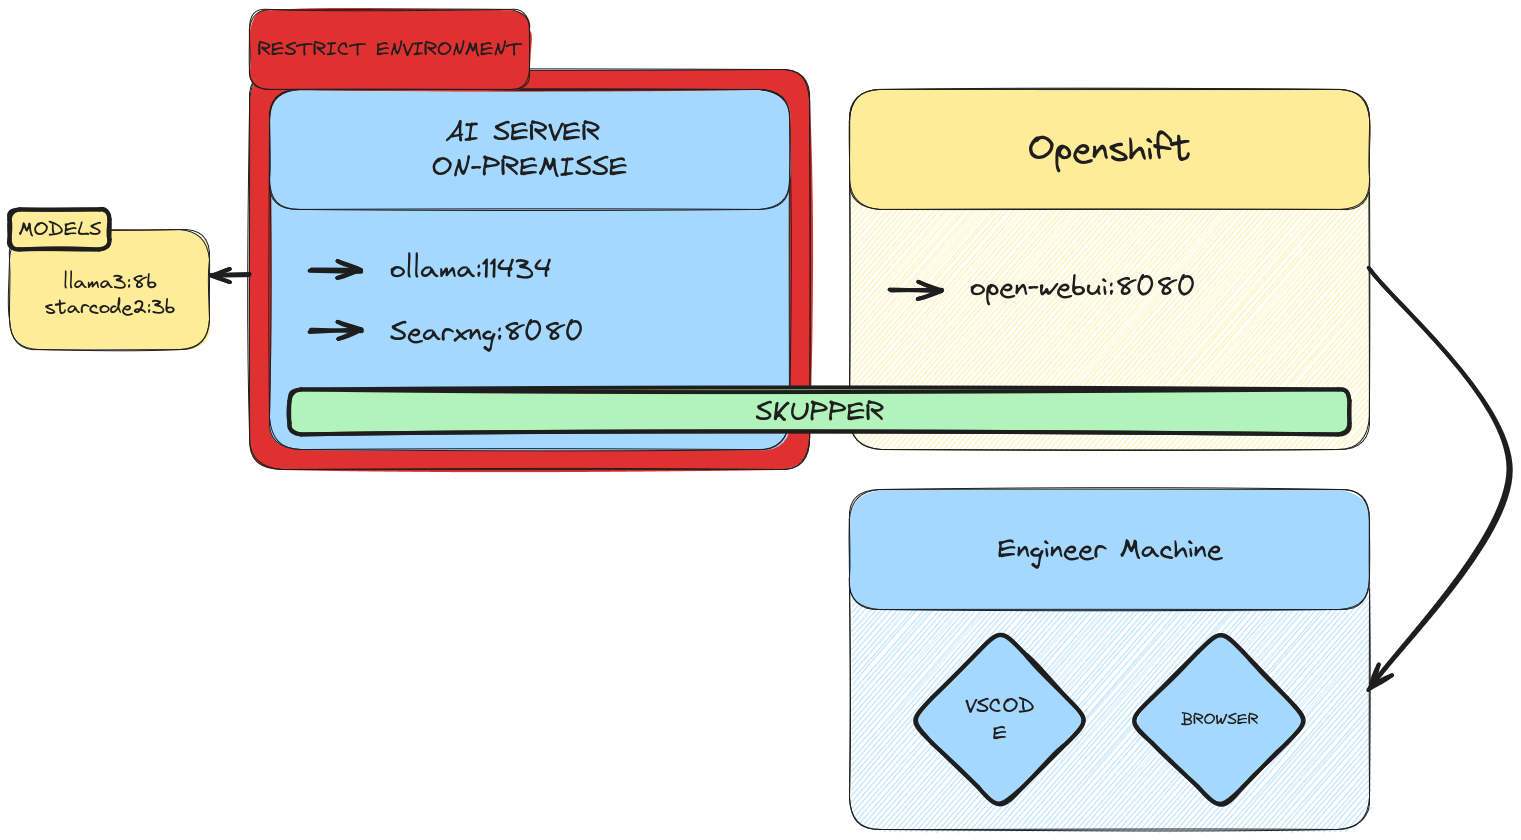
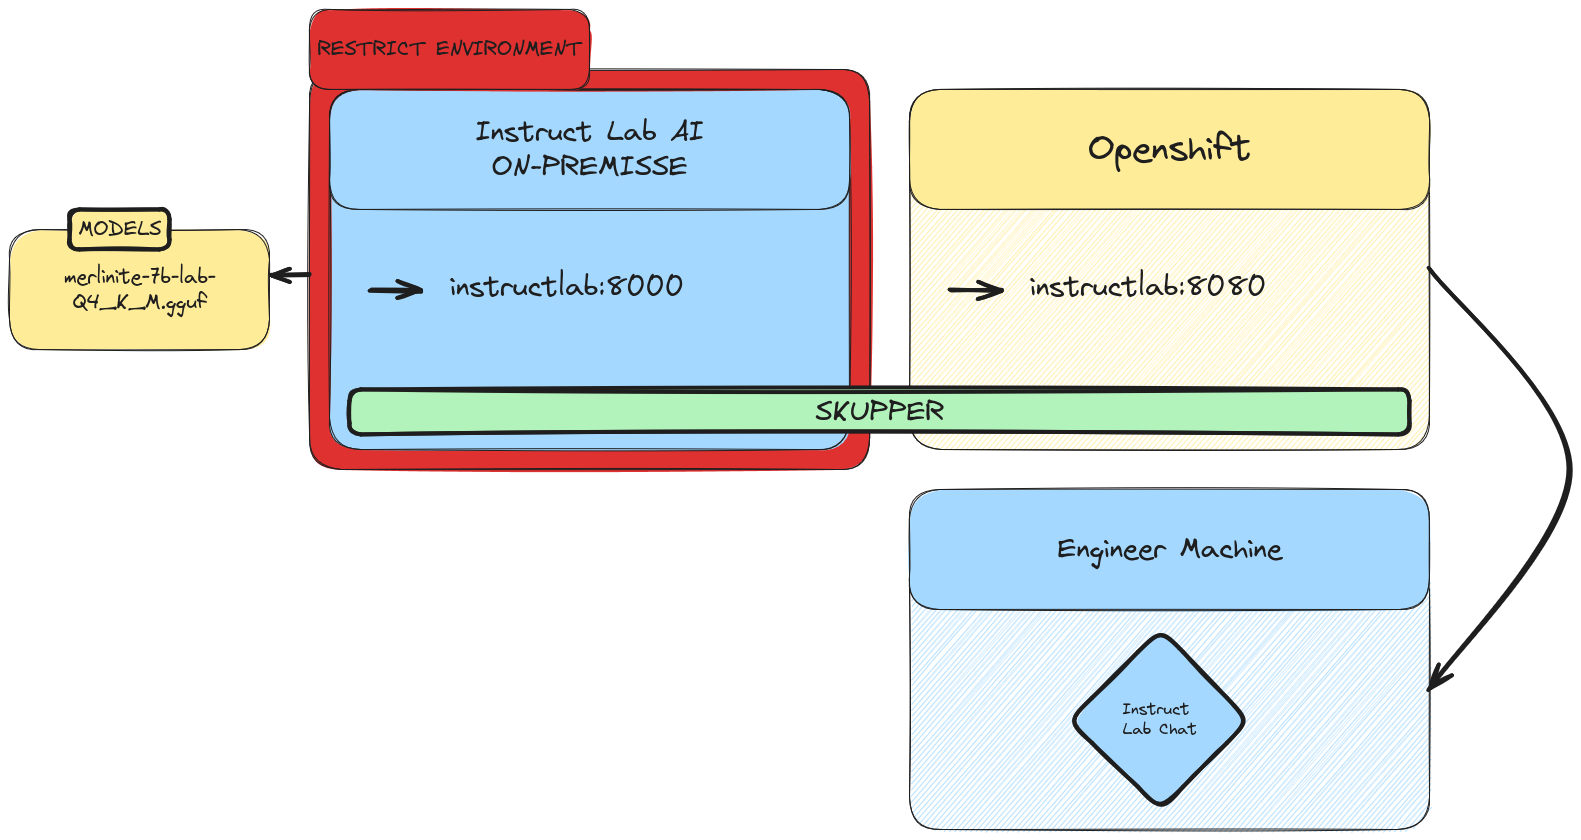
feat: Add token.yaml for secure communication between sites

diff --git a/README.md b/README.md
@@ -2,38 +2,245 @@
 
 ## Problem to solve
 
-The main goal of this project is to create a secure connection between two sites, enabling the communication between two models: llama3 and starcode2. The llama3 model will be used for chatbot purposes, while the starcode2 model will be used for code generation purposes. The Ollama Pilot application will be responsible for receiving the user input, sending it to the llama3 model, receiving the response, and sending it to the starcode2 model. The response from the starcode2 model will be sent back to the user. 
+![contest](banner.jpg)
 
-> This solution is designed to teams/companies that want to use chatbots and code generators without sharing their data with third parties.
+The main goal of this project is to create a secure connection between two sites, enabling the communication between the engineer machine and a Instrcut Lab Model. The merlinite-7b-lab-Q4_K_M.gguf model will be used for chatbot, this model is available in the instruct lab. The license of the model is available in the [Instruct Labs](https://instructlab.ai/).
+
+But, why the banner? Well, the engineer needs to know who is better, Lebron or Jordan. The chatbot will be responsible for answering this question. The chatbot will receive the user input and send it to the llama3 model. The response from the llama3 model will be sent back to the user.
+
+
 
 ## Disclaimer
 
 > All the models used are available in the Hugging Face model hub. The models are not hosted in this project, they are hosted by Hugging Face. The models are used for educational purposes only.
 
-### License
+## Why InstructLab
 
-[llama3 model](https://ollama.com/library/llama3.1/blobs/f1cd752815fc)
+There are many projects rapidly embracing and extending permissively licensed AI models, but they are faced with three main challenges:
 
-[starcode2 model](https://ollama.com/library/starcoder2/blobs/4ec42cd966c9)
+* Contribution to LLMs is not possible directly. They show up as forks, which forces consumers to choose a “best-fit” model that isn’t easily extensible. Also, the forks are expensive for model creators to maintain.
+* The ability to contribute ideas is limited by a lack of AI/ML expertise. One has to learn how to fork, train, and refine models to see their idea move forward. This is a high barrier to entry.
+* There is no direct community governance or best practice around review, curation, and distribution of forked models.
 
 
-This is for educational purposes only. The models are not hosted in this project, they are hosted by Hugging Face. The models are used for educational purposes only, if you are going to use it for commercial purposes, please check other models like [Instruct Labs](https://instructlab.ai/).
+This snippet was extracted from the [Instruct Labs](https://github.com/instructlab) repository.
 
+
+## Why Skupper
+
+![Skupper](skupper.png)
+
+Here the answer is simple, Skupper is a tool that enables secure communication between services in different environments. Skupper will be used to create a secure connection between the two sites, one of the sites has restricted access to the internet. Skupper will enable the communication between the two sites, allowing the Ollama Pilot application to send requests to the merlinite-7b-lab-Q4_K_M.gguf model thru the Instruct Lab chat.
 
 ## Description
 
 This project has the objective to create a VAN (Virtual Application Newtwork) that enables the connection between two sites: 
-- Site A: A self-hosted application running llama3 with the following models:
-  - llama3:8b Meta developed and released the Meta Llama 3 family of large language models (LLMs), a collection of pretrained and instruction tuned generative text models in 8 and 70B sizes. The Llama 3 instruction tuned models are optimized for dialogue use cases and outperform many of the available open source chat models on common industry benchmarks. Further, in developing these models, we took great care to optimize helpfulness and safety. This model will be used for chatbot purposes.
-  - starcode2:3b StarCoder2 is the next generation of transparently trained open code LLMs that comes in three sizes: 3B, 7B and 15B parameters. This model will be used for code generation purposes.
+- Site A: A server that hosts the Instruct Lab chat model. This model will be responsible for receiving the user input and sending it to the llama3 model. The response from the llama3 model will be sent back to the user.
 
-- Site B: A Openshift deployment that will host the Ollama Pilot application. This application will be responsible for receiving the user input, sending it to the llama3 model, receiving the response, and sending it to the starcode2 model. The response from the starcode2 model will be sent back to the user.
-  - Open Web UI: The user will interact with the application through a web interface.
+- Site B: A Openshift site that expose the Instruct Lab chat model. This site will be responsible for sending the user input to the Instruct Lab chat model and receiving the response from the Merlinite-7b-lab-Q4_K_M.gguf model.
 
 In order to connect the two sites, we will use [Skupper](https://skupper.io/), a tool that enables secure communication between services in different environments. Skupper will be used to create a secure connection between the two sites, allowing the Ollama Pilot application to send requests to the llama3 model and receive the response from the starcode2 model.
 
-At the end of the project you will be able to use your own CHATBOT and CODE GENERATOR without sharing your data with third parties.
+At the end of the project you will be able to use your own CHATBOT with protected data.
 
 ## Architecture
 
 ![Architecture](architecture.png)
+
+
+## Summary
+
+1. AI model deployment with InstuctLab
+2. Private Skupper deployment
+3. Public Skupper deployment
+4. Secure communication between the two sites with Skupper
+5. Chatbot with protected data
+
+## 1.  Ai model deployment with InstructLab
+
+The first step is to deploy the InstructLab chat model in the InstructLab site. The InstructLab chat model will be responsible for receiving the user input and sending it to the llama3 model. The response from the llama3 model will be sent back to the user. This is baed on the article: [Getting started with InstructLab for generative AI model tuning](https://developers.redhat.com/blog/2024/06/12/getting-started-instructlab-generative-ai-model-tuning#model_alignment_and_training_with_instructlab)
+
+
+  ```bash
+  mkdir instructlab && cd instructlab 
+  python3.11 -m venv venv 
+  source venv/bin/activate
+  pip install 'instructlab[cuda]' -C cmake.args="-DLLAMA_CUDA=on" -C cmake.args="-DLLAMA_NATIVE=off"
+  ```
+
+> IMPORTANT: This installation method will enable your Nvidia GPU to be used by instructlab. If you don't have a Nvidia GPU, please check other options in: [InstructLab 🐶 (ilab)](https://github.com/instructlab/instructlab/blob/main/README.md#-installing-ilab)
+
+  ```bash
+  ilab config init
+  ```
+
+To enable external access into your model, please modify the `config.yaml` file:
+
+  ```yaml
+  chat:
+    context: default
+    greedy_mode: false
+    logs_dir: data/chatlogs
+    max_tokens: null
+    model: models/merlinite-7b-lab-Q4_K_M.gguf
+    session: null
+    vi_mode: false
+    visible_overflow: true
+  general:
+    log_level: INFO
+  generate:
+    chunk_word_count: 1000
+    model: models/merlinite-7b-lab-Q4_K_M.gguf
+    num_cpus: 10
+    num_instructions: 100
+    output_dir: generated
+    prompt_file: prompt.txt
+    seed_file: seed_tasks.json
+    taxonomy_base: origin/main
+    taxonomy_path: taxonomy
+  serve:
+    gpu_layers: -1
+    host_port: 0.0.0.0:8000 # HERE
+    max_ctx_size: 4096
+    model_path: models/merlinite-7b-lab-Q4_K_M.gguf
+  ```
+
+Now, you can download and start your server:
+  
+  ```bash
+  ilab model download
+  ilab model serve
+  
+  # The outupt should be similar to:
+  INFO 2024-07-30 18:59:01,199 serve.py:51: serve Using model 'models/merlinite-7b-lab-Q4_K_M.gguf' with -1 gpu-layers and 4096 max context size.
+  INFO 2024-07-30 18:59:01,611 server.py:218: server Starting server process, press CTRL+C to shutdown server...
+  INFO 2024-07-30 18:59:01,612 server.py:219: server After application startup complete see http://0.0.0.0:8000/docs for API.
+
+  ```
+
+## 2. Private Skupper deployment
+
+The second step is to deploy the private Skupper in the Site A. The private Skupper will be responsible for creating a secure connection between the two sites, allowing the Ollama Pilot application to send requests to the llama3 model and receive the response from the starcode2 model.
+
+### Install Skupper
+  ```bash
+  export SKUPPER_PLATFORM=podman
+  skupper init --ingress none
+  ```
+
+### Exposing the InstructLab chat model
+
+In order to do this, we will bind the local service that is running the InstructLab chat model to the Skupper service.
+
+  ```bash
+  skupper expose host host.containers.internal --address instructlab --port 8000
+  ```
+
+Let's check the status of the Skupper service:
+
+  ```bash
+  skupper service status
+  Services exposed through Skupper:
+  ╰─ instructlab:8000 (tcp)
+  ```
+
+Now, we are almost ready to connect the two sites. The next step is to deploy the public Skupper in the Site B, and create a connection between the two sites.
+
+## 3. Public Skupper deployment
+
+The third step is to deploy the public Skupper in the Site B. The public Skupper will receive the connection from the private Skupper and create a secure connection between the two sites. Open a new terminal and run the following commands:
+
+1. Creating the project and deploying the public Skupper:
+  ```bash
+  oc new-project ollama-pilot
+  skupper init --enable-console --enable-flow-collector --console-user admin --console-password admin 
+  ```
+
+2. Creating the token to allow the private Skupper to connect to the public Skupper:
+  ```bash
+  skupper token create token.yaml
+  ```
+
+At this point, you should have a `token.yaml` file with the token to connect the two sites. The next step is to link the two sites. For this will will need to switch back to the terminal where the private Skupper is running.
+
+## 4. Secure communication between the two sites with Skupper
+
+The fourth step is to connect the two sites. In the terminal where the private Skupper is running, run the following command:
+
+  ```bash
+   skupper link create token.yaml --name instructlab # Or any other name you want
+  ```
+
+Let's check the status of the Skupper link:
+
+  ```bash
+   skupper link status
+
+    Links created from this site:
+
+            Link instructlab is connected
+
+    Current links from other sites that are connected:
+
+            There are no connected links
+  ```
+
+> Before continue, let's hop back to the terminal where the public Skupper is running and check the status of the link:
+
+  ```bash
+  skupper link status
+
+  Links created from this site:
+
+           There are no links configured or connected
+
+  Current links from other sites that are connected:
+
+           Incoming link from site b8ad86d5-9680-4fea-9c07-ea7ee394e0bd
+
+  ```
+
+## 5. Chatbot with protected data
+
+Now the last part is to expose the service in the public Skupper and create the Ollama Pilot application.
+
+1. Still on the terminal where the public Skupper is running, run the following command to expose the service, with the following command we will create a skupper service that matches the service exposed by the private Skupper, this will end up creating a kubernetes service that will be used by the Ollama Pilot application.
+
+  ```bash
+  skupper service create instructlab 8000
+ ```
+
+2. Exposing the service to the internet:
+
+  ```bash
+   oc expose service instructlab
+  ```
+
+3. Getting the public URL:
+
+  ```bash
+  oc get route instructlab
+  NAME          HOST/PORT                                                              PATH   SERVICES      PORT       TERMINATION   WILDCARD
+  instructlab   instructlab-ollama-pilot.apps.your-cluster-url          instructlab   port8000                 None
+  ```
+
+4. The last step is to create the Ollama Pilot application. The Ollama Pilot application will be responsible for sending the user input to the Instruct Lab chat model and receiving the response from the Merlinite-7b-lab-Q4_K_M.gguf model. The Ollama Pilot application will be able to send requests to the Instruct Lab chat model thru the secure connection created by Skupper.
+
+You can repeat all the instructions in step [1. Ai model deployment with InstructLab](#1-ai-model-deployment-with-instructlab) to install the Instruct Lab chat model in the Site B. The only difference is that you will not run the `ilab model serve` command, because the Instruct Lab chat model is already running in the Site A.
+
+The Ollama Pilot application will be responsible for sending the user input to the Instruct Lab chat model and receiving the response from the Merlinite-7b-lab-Q4_K_M.gguf model. The Ollama Pilot application will be able to send requests to the Instruct Lab chat model thru the secure connection created by Skupper.
+
+```
+ilab model chat --endpoint-url http://instructlab-ollama-pilot.apps.your-cluster-url/v1/
+╭─────────────────────────────────────────────── system ────────────────────────────────────────────────
+│ Welcome to InstructLab Chat w/ MODELS/MERLINITE-7B-LAB-Q4_K_M.GGUF (type /h for help)
+╰──────────────────────────────────────────────────────────────────────────────────────────────────────
+>>> Yes or Not question. Don't fool me. Is Lebron better then Jordan?                        [S][default]
+╭───────────────────────────────── models/merlinite-7b-lab-Q4_K_M.gguf ─────────────────────────────────
+│ Based on my knowledge, it can be said that Lebron James has accomplished a lot in his career so far. 
+╰─────────────────────────────────────────────────────────────────────────────── elapsed 4.059 seconds 
+```
+
+![winner](winner.jpg)
+
+Have fun with your new chatbot with protected data! If you don´t agree with the answer, you can always ask again and train your model, but King James is the best!
